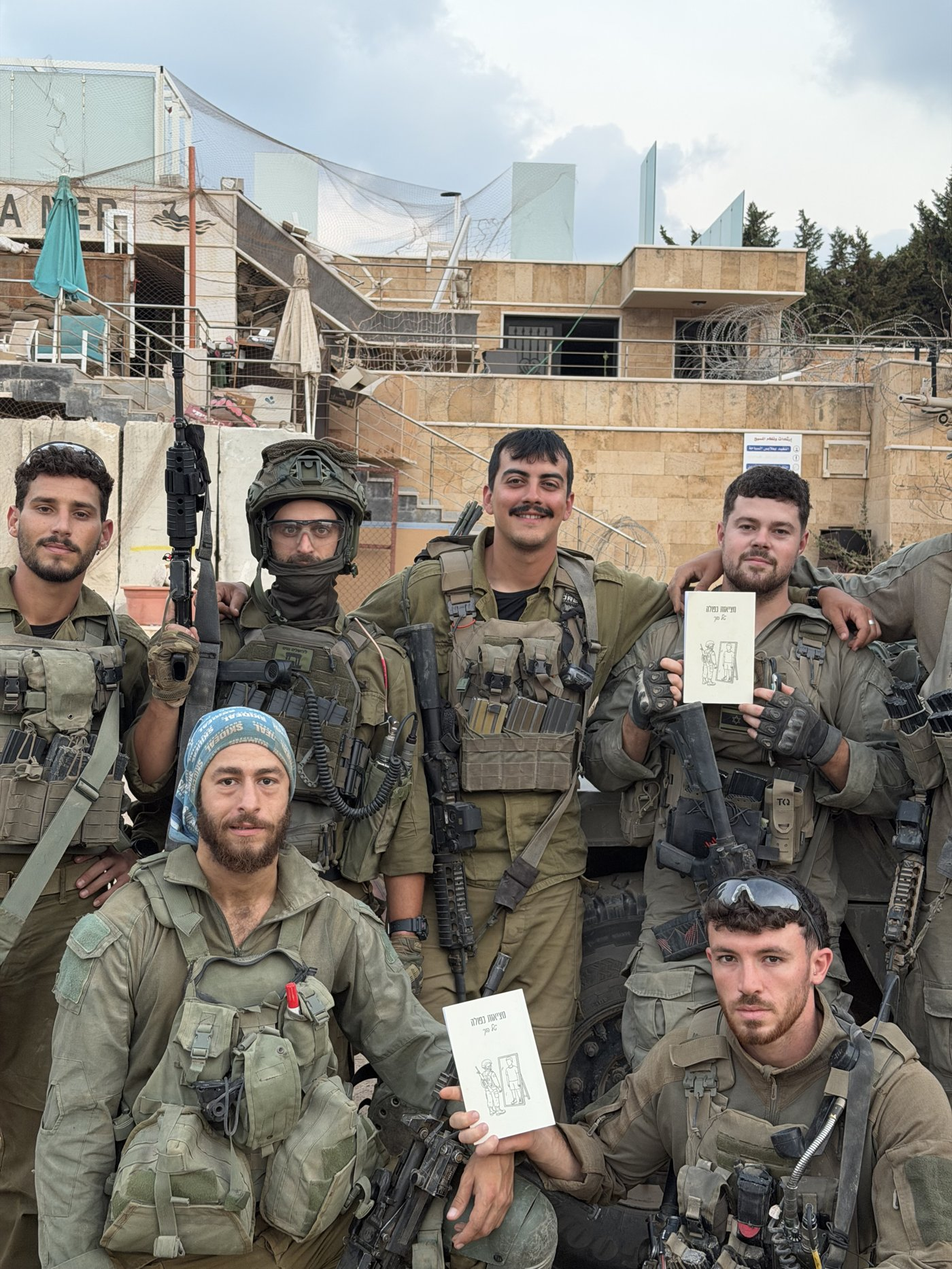
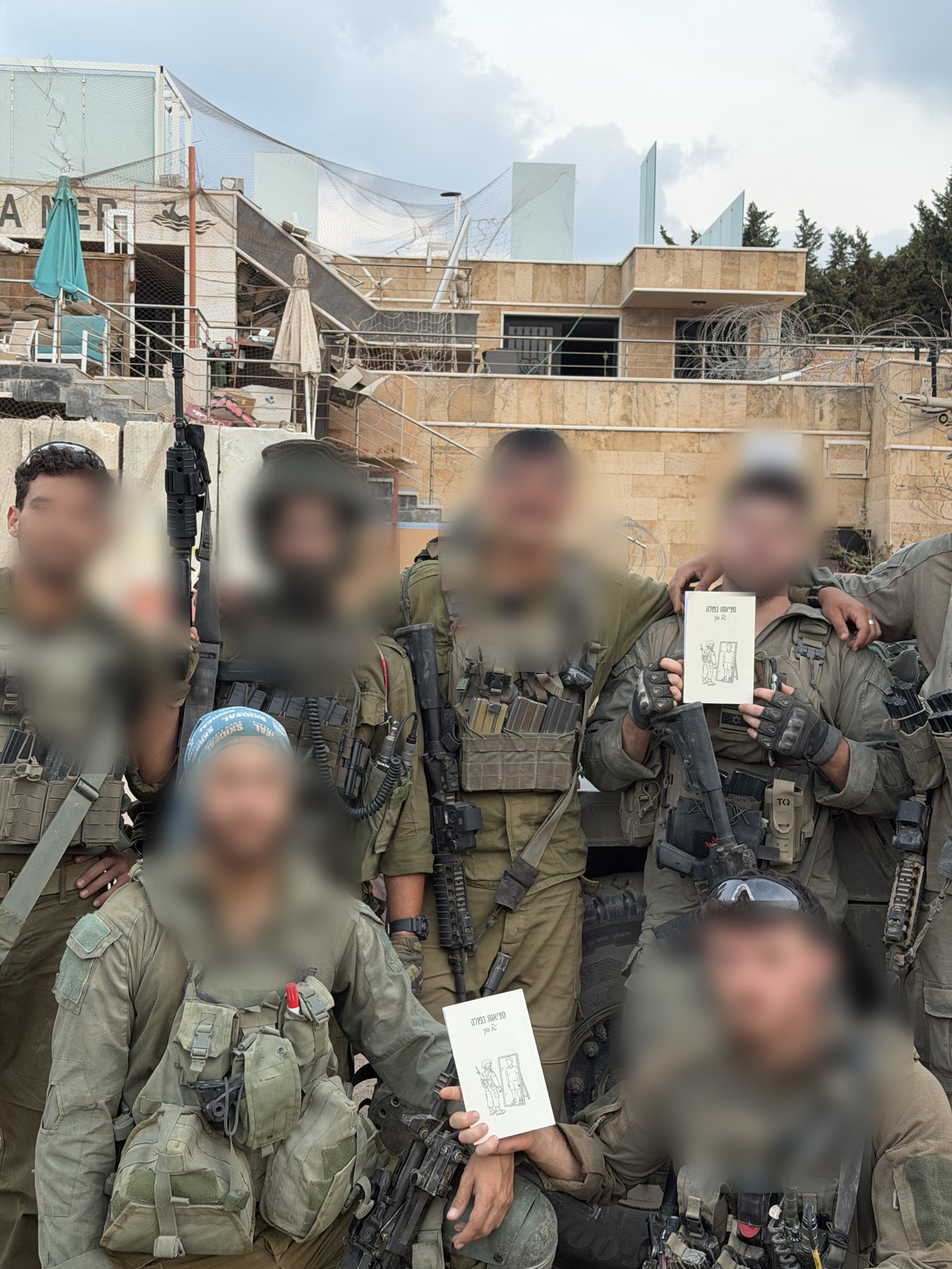
Blur teammates' faces in book-field (books kept visible); add author photo captions

diff --git a/index.html b/index.html
@@ -140,9 +140,11 @@
   .author{background:var(--cream)}
   .author-grid{display:grid;grid-template-columns:1fr 1.1fr;gap:56px;align-items:center}
   .author-photos{display:grid;grid-template-columns:1fr 1fr;grid-auto-rows:200px;gap:14px}
-  .author-photos img{width:100%;height:100%;object-fit:cover;border-radius:12px;box-shadow:0 14px 34px rgba(20,58,49,.16);transition:.3s}
-  .author-photos img:hover{transform:scale(1.02)}
-  .author-photos img.tall{grid-row:span 2}
+  .author-photos figure{position:relative;margin:0;border-radius:12px;overflow:hidden;box-shadow:0 14px 34px rgba(20,58,49,.16)}
+  .author-photos figure.tall{grid-row:span 2}
+  .author-photos img{width:100%;height:100%;object-fit:cover;display:block;transition:.5s}
+  .author-photos figure:hover img{transform:scale(1.04)}
+  .author-photos figcaption{position:absolute;left:0;right:0;bottom:0;padding:28px 14px 11px;background:linear-gradient(transparent,rgba(14,42,36,.9));color:#fff;font-size:.82rem;letter-spacing:.02em;line-height:1.35}
   .author-text h2{font-size:3rem}
   .author-text .heb{color:var(--sea);font-size:1.25rem;margin:6px 0 20px}
   .author-text p{color:#3c382f;margin-bottom:16px;font-size:1.08rem}
@@ -402,9 +404,9 @@
 <section class="author">
   <div class="wrap author-grid">
     <div class="author-photos reveal">
-      <img class="tall" src="img/portrait.jpg" alt="Tal in uniform">
-      <img src="img/lecture.jpg" alt="Tal speaking on stage">
-      <img src="img/brothers.jpg" alt="Tal with his unit">
+      <figure class="tall"><img src="img/portrait.jpg" alt="Tal in uniform, Lebanon"><figcaption>Tal · last reserve round, Lebanon</figcaption></figure>
+      <figure><img src="img/lecture.jpg" alt="Tal speaking on stage"><figcaption>Tal's lecture</figcaption></figure>
+      <figure><img src="img/brothers.jpg" alt="With his unit"><figcaption>October 7th</figcaption></figure>
     </div>
     <div class="author-text">
       <span class="eyebrow reveal">The author</span>
